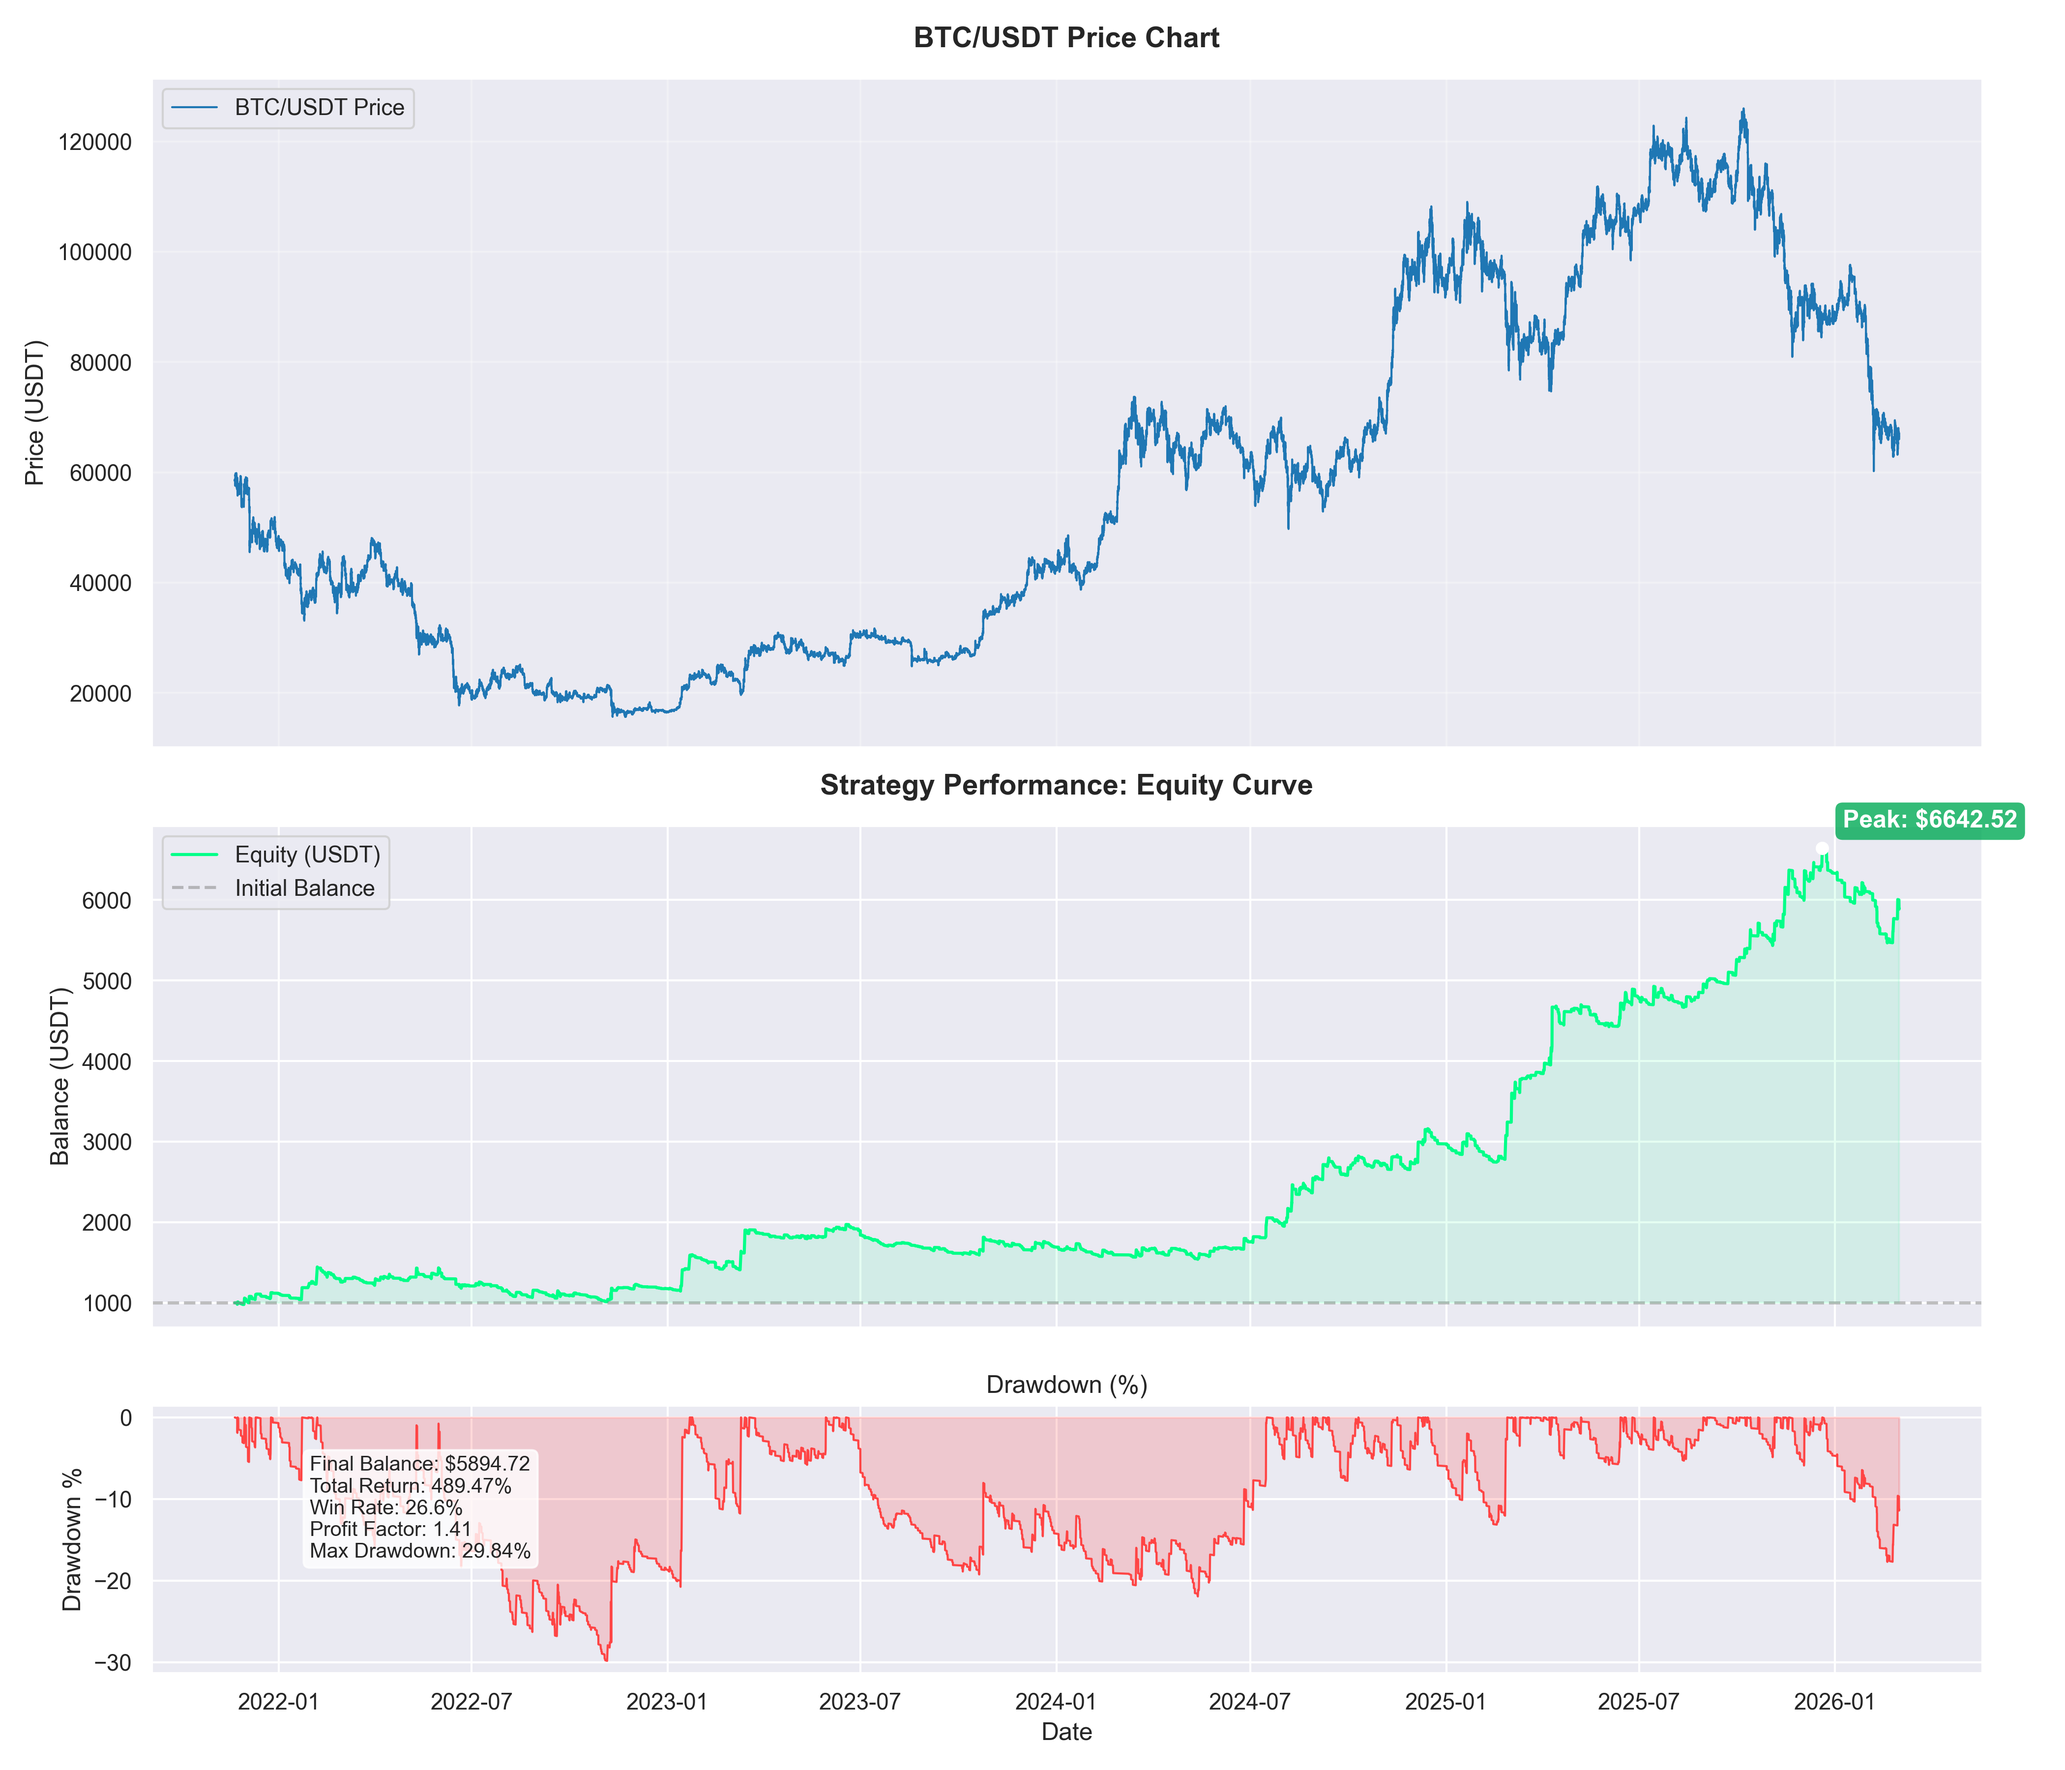
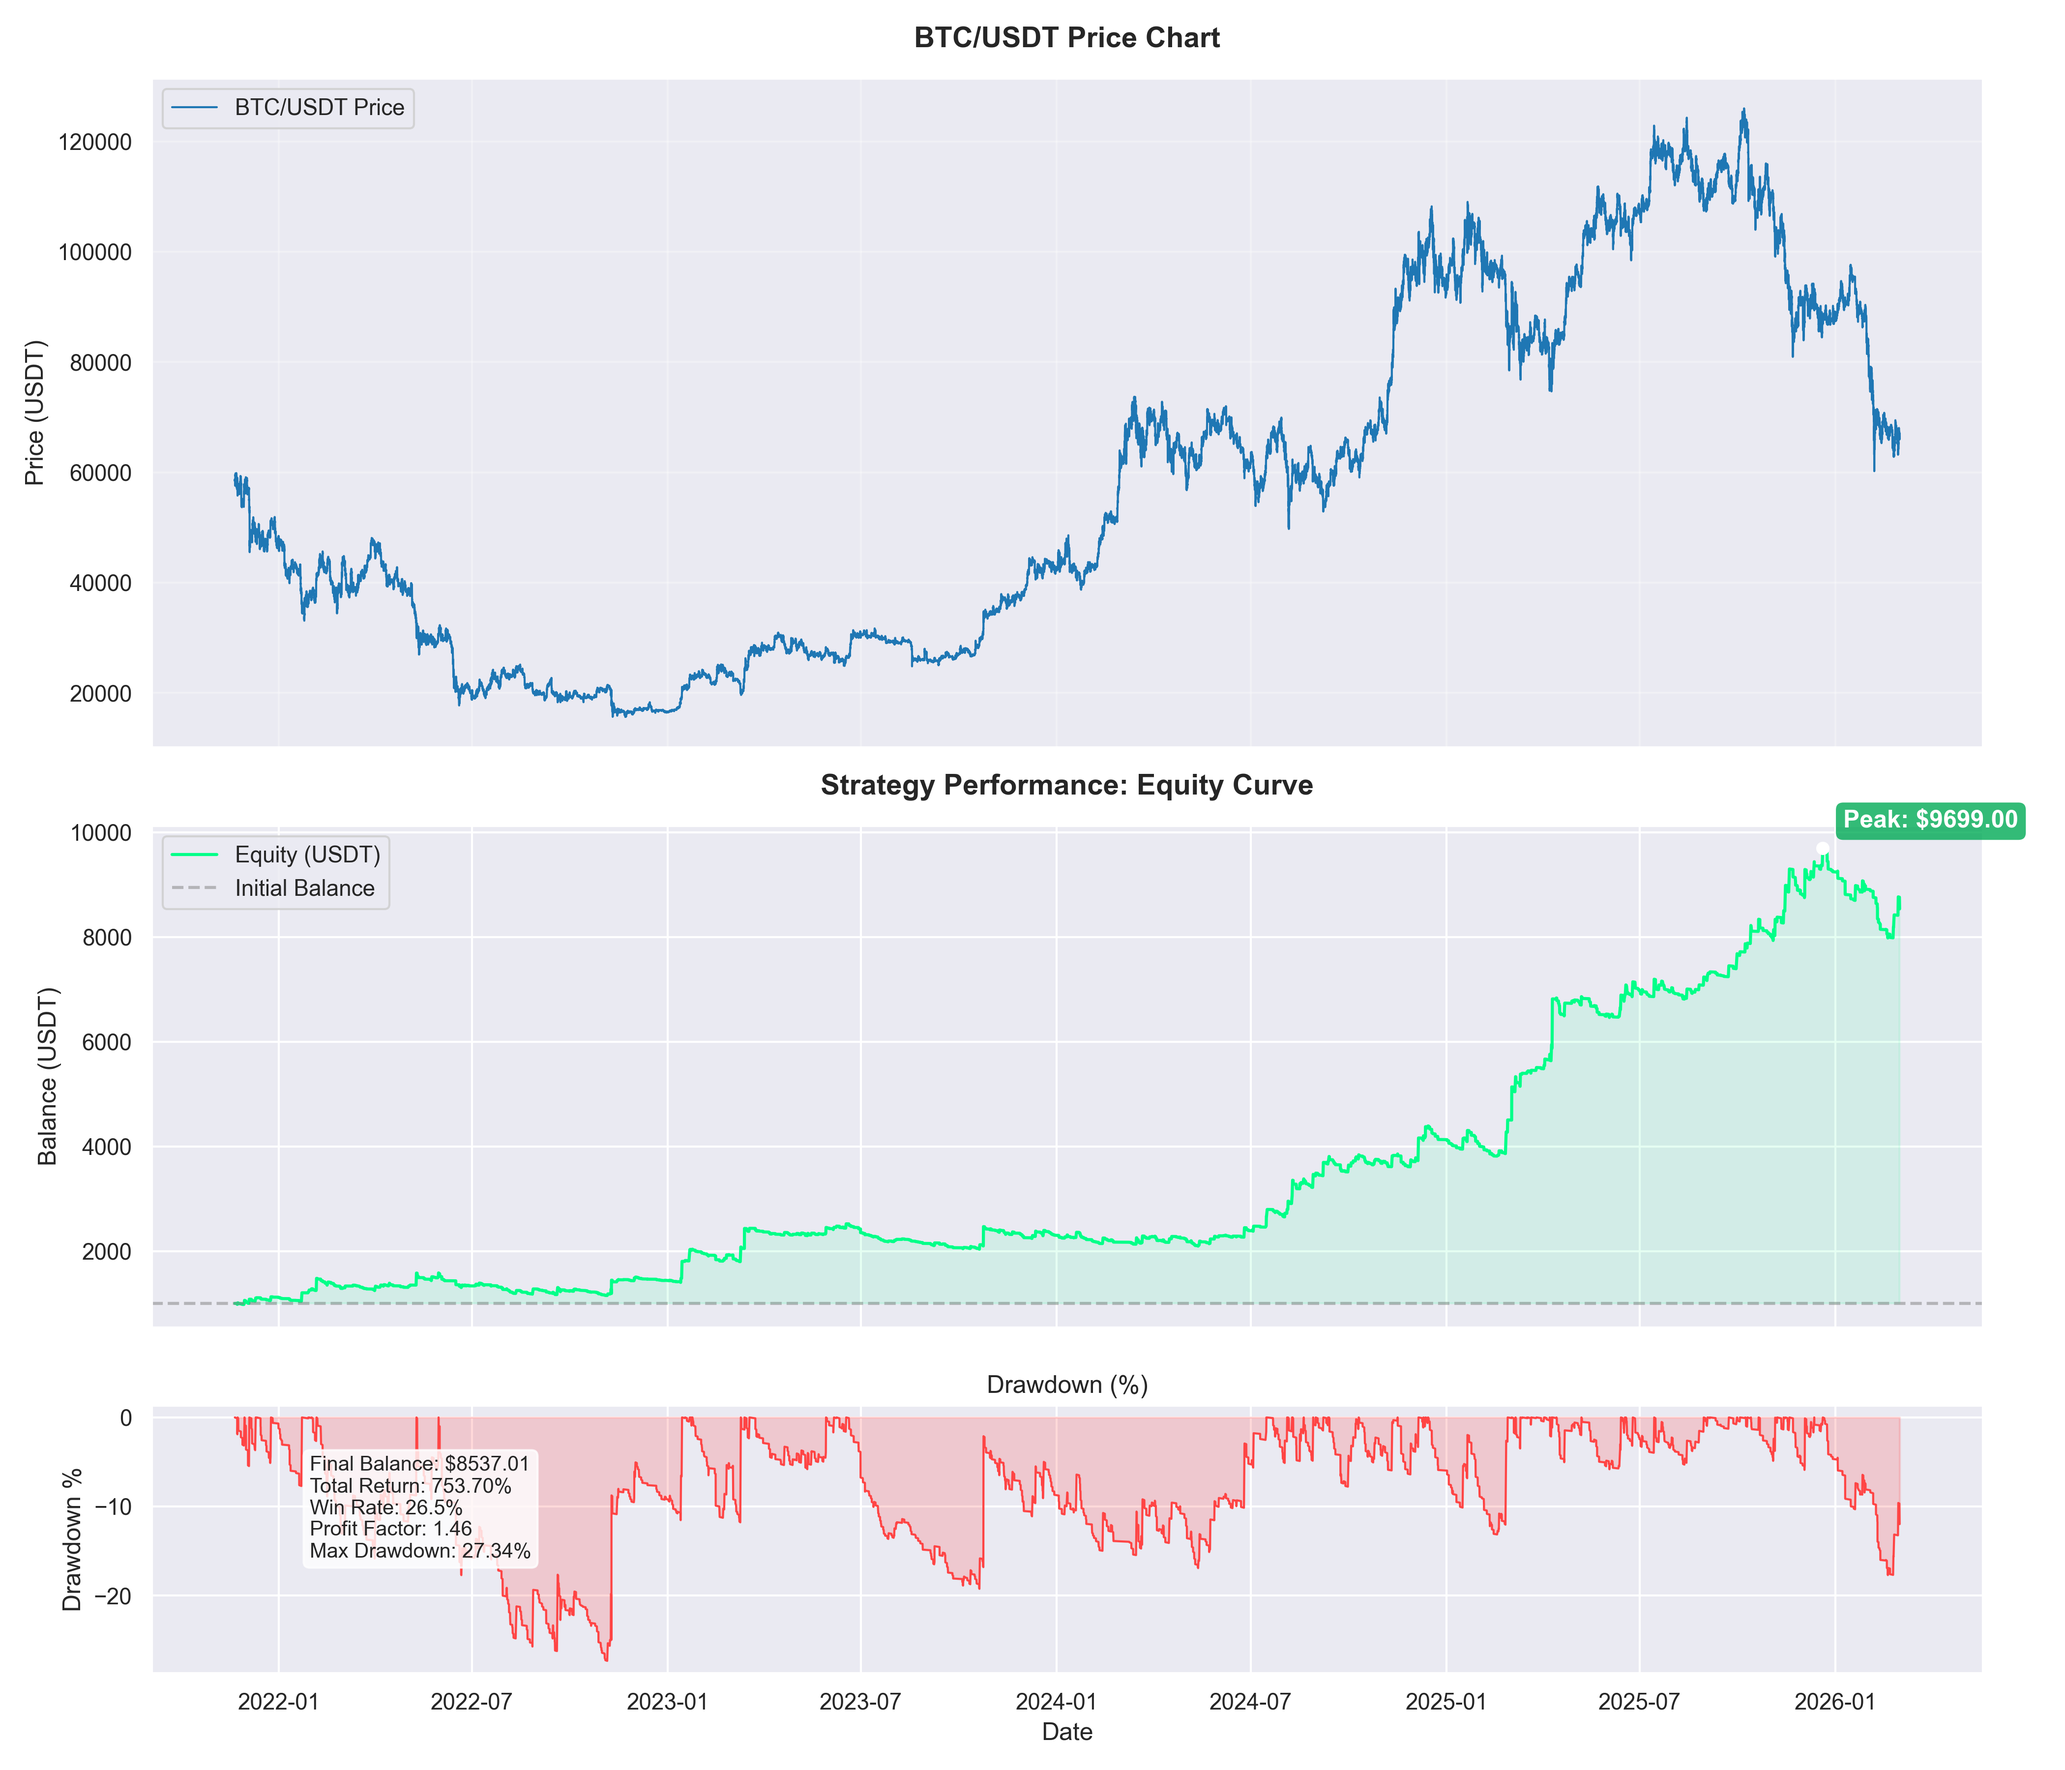
feat: Introduce a new optimization framework with a base optimizer and implement ROI take profit optimization in the backtest.

diff --git a/backtest.py b/backtest.py
@@ -15,7 +15,7 @@ from config import (
     RSI_LENGTH, RSI_OVERBOUGHT, RSI_OVERSOLD, RSI_LONG_THRESHOLD,
     VOLUME_MA_LENGTH,
     EMA_SLOPE_EMA_LENGTH, EMA_SLOPE_LOOKBACK, EMA_SLOPE_THRESHOLD, REDUCED_POSITION_SIZE_PERCENT,
-    RSI_DIV_LOOKBACK, RSI_DIV_MIN_RSI, RSI_DIV_PARTIAL_CLOSE_PCT
+    RSI_DIV_LOOKBACK, RSI_DIV_MIN_RSI, RSI_DIV_PARTIAL_CLOSE_PCT, settings
 )
 
 LIMIT = 150000
@@ -25,7 +25,8 @@ GEN_CHART = True
 
 def simulate(df, use_ema_filter=True, st_length=SUPERTREND_LENGTH, st_factor=SUPERTREND_FACTOR, sl_multiplier=ATR_MULTIPLIER, use_adx_filter=True, adx_threshold=ADX_THRESHOLD, use_rsi_filter=True, rsi_overbought=RSI_OVERBOUGHT, rsi_oversold=RSI_OVERSOLD, rsi_long_threshold=RSI_LONG_THRESHOLD, use_volume_filter=True, volume_ma_length=VOLUME_MA_LENGTH, leverage=LEVERAGE, position_size_percent=POSITION_SIZE_PERCENT,
              use_ema_slope_sizing=True, ema_slope_threshold=EMA_SLOPE_THRESHOLD, reduced_size_percent=REDUCED_POSITION_SIZE_PERCENT, slope_ema_length=EMA_SLOPE_EMA_LENGTH, slope_lookback=EMA_SLOPE_LOOKBACK,
-             use_divergence_filter=True, div_lookback=RSI_DIV_LOOKBACK, div_min_rsi=RSI_DIV_MIN_RSI, div_partial_pct=RSI_DIV_PARTIAL_CLOSE_PCT):
+             use_divergence_filter=True, div_lookback=RSI_DIV_LOOKBACK, div_min_rsi=RSI_DIV_MIN_RSI, div_partial_pct=RSI_DIV_PARTIAL_CLOSE_PCT,
+             roi_tp=0.0):
     initial_balance = 1000
     balance = initial_balance
     position_amt = 0 
@@ -145,7 +146,22 @@ def simulate(df, use_ema_filter=True, st_length=SUPERTREND_LENGTH, st_factor=SUP
             trades.append({'time': execution_time, 'type': 'CLOSE_SHORT', 'price': price, 'pnl': pnl})
             position_amt = 0
 
-        # 1a. PARTIAL TAKE PROFIT - DISABLED (Pure Trend Following)
+        # 1a. ROI TAKE PROFIT CHECK
+        if roi_tp > 0 and position_amt != 0:
+            current_roi = 0
+            if position_amt > 0:
+                current_roi = (price - entry_price) / entry_price * leverage
+            else:
+                current_roi = (entry_price - price) / entry_price * leverage
+            
+            if current_roi >= (roi_tp / 100.0): # roi_tp in percent
+                raw_pnl = (price - entry_price) * position_amt if position_amt > 0 else (entry_price - price) * abs(position_amt)
+                fee = (price * abs(position_amt)) * commission_rate
+                pnl = raw_pnl - fee
+                balance += pnl
+                trades.append({'time': execution_time, 'type': 'TAKE_PROFIT_ROI', 'price': price, 'pnl': pnl})
+                position_amt = 0
+                continue # Skip other exit checks
 
         # 1b. ATR-BASED STOP LOSS CHECK
         if position_amt > 0 and price <= stop_loss_price:
@@ -277,7 +293,7 @@ def simulate(df, use_ema_filter=True, st_length=SUPERTREND_LENGTH, st_factor=SUP
             # Add partial pnl but keep trade open
             if is_open:
                 current_trade_pnl += t['pnl']
-        elif any(x in t['type'] for x in ['CLOSE', 'STOP_LOSS', 'FINAL_CLOSE', 'LIQUIDATION']):
+        elif any(x in t['type'] for x in ['CLOSE', 'STOP_LOSS', 'FINAL_CLOSE', 'LIQUIDATION', 'TAKE_PROFIT_ROI']):
             current_trade_pnl += t['pnl']
             if is_open:
                 trade_cycles.append(current_trade_pnl)
@@ -489,7 +505,7 @@ def run_backtest():
 
     limit = LIMIT
 
-    print(f"Strategy: EMA {EMA_LENGTH}, SuperTrend {SUPERTREND_LENGTH}/{SUPERTREND_FACTOR}, ADX > {ADX_THRESHOLD}, SL: {ATR_MULTIPLIER}xATR, TP: Disabled (Pure Trend Following)")
+    print(f"Strategy: EMA {EMA_LENGTH}, SuperTrend {SUPERTREND_LENGTH}/{SUPERTREND_FACTOR}, ADX > {ADX_THRESHOLD}, SL: {ATR_MULTIPLIER}xATR, ROI TP: {settings.ROI_TP}%")
     
     df = get_backtest_data(limit=limit)
     if df is None: return
@@ -506,7 +522,7 @@ def run_backtest():
     df_final = df_st
     
     # Run simulation
-    res, trades = simulate(df_final, use_ema_filter=True, use_adx_filter=True, use_rsi_filter=True, use_volume_filter=True, use_ema_slope_sizing=True, use_divergence_filter=True)
+    res, trades = simulate(df_final, use_ema_filter=True, use_adx_filter=True, use_rsi_filter=True, use_volume_filter=True, use_ema_slope_sizing=True, use_divergence_filter=True, roi_tp=settings.ROI_TP)
     
     # --- LOGGING SETUP ---
     log_dir = "resource/backtest_logs"

diff --git a/optimize/optimize_roi_tp.py b/optimize/optimize_roi_tp.py
@@ -1,0 +1,48 @@
+
+import numpy as np
+import pandas as pd
+from base_optimizer import BaseOptimizer
+from backtest import simulate
+
+def run_simulation(roi_tp, df_final):
+    # Test ROI Take Profit
+    res, _ = simulate(df_final, roi_tp=roi_tp)
+    return {
+        'roi_tp_pct': round(roi_tp, 1),
+        'pnl_pct': res['pnl_pct'],
+        'win_rate': res['win_rate'],
+        'pf': res['profit_factor'],
+        'mdd': res['max_drawdown'],
+        'total_trades': res['total_trades']
+    }
+
+def run_optimization():
+    optimizer = BaseOptimizer("ROI Take Profit Optimization")
+    
+    print("Strategy: Pure Trend Following + ROI Take Profit")
+    
+    if not optimizer.load_and_prepare_data():
+        return
+
+    # Define range for ROI TP (%)
+    # Testing from 10% to 500% ROI
+    # 0 means disabled
+    roi_targets = [0] + list(np.arange(77, 78, 0.1))
+    
+    tasks = [(target,) for target in roi_targets]
+    
+    results = optimizer.run_parallel(tasks, run_simulation)
+    
+    opt_df = optimizer.save_and_analyze(results, "optimization_results_roi_tp.csv")
+    
+    if opt_df is not None and not opt_df.empty:
+        # Sort by PnL and show top 5
+        print("\n🌟 BEST ROI TP SETTINGS:")
+        print(opt_df.sort_values(by='pnl_pct', ascending=False).head(5).to_string(index=False))
+        
+        # Compare with 0 (No TP)
+        no_tp = opt_df[opt_df['roi_tp_pct'] == 0].iloc[0]
+        print(f"\n📈 Baseline (No TP): PnL: {no_tp['pnl_pct']:.2f}%, MDD: {no_tp['mdd']:.2f}%, PF: {no_tp['pf']:.2f}")
+
+if __name__ == "__main__":
+    run_optimization()

diff --git a/bot/strategy.py b/bot/strategy.py
@@ -97,6 +97,29 @@ class Strategy:
                 self.notifier.send_lark_message(f"⚠ **SOFTWARE STOP LOSS HIT**\nCurrent Price: {current_price:.2f}\nTarget SL: {self.stop_loss_price:.2f}\nClosing position.")
             self.close_all_positions()
             self.stop_loss_price = None
+            return
+
+        # Check for ROI Take Profit
+        if settings.ROI_TP > 0:
+            roi = 0
+            if current_pos_amt > 0:
+                roi = (current_price - entry_price) / entry_price * settings.LEVERAGE
+            else:
+                roi = (entry_price - current_price) / entry_price * settings.LEVERAGE
+            
+            if (roi * 100) >= settings.ROI_TP:
+                self.logger.info(f"ROI TAKE PROFIT TARGET REACHED: {roi*100:.2f}% (Target: {settings.ROI_TP}%). Closing position.")
+                if self.notifier:
+                    self.notifier.send_lark_message(
+                        f"💰 **ROI TAKE PROFIT TARGET REACHED**\n"
+                        f"Current Price: {current_price:.2f}\n"
+                        f"Entry Price: {entry_price:.2f}\n"
+                        f"Current ROI: {roi*100:.2f}%\n"
+                        f"Target: {settings.ROI_TP}%\n"
+                        f"Closing position."
+                    )
+                self.close_all_positions()
+                self.stop_loss_price = None
 
     def _check_new_candle(self, df: pd.DataFrame) -> Optional[float]:
         """

diff --git a/optimize/base_optimizer.py b/optimize/base_optimizer.py
@@ -12,7 +12,7 @@ from backtest import get_backtest_data
 from bot.data_processor import DataProcessor
 from config import (
     EMA_LENGTH, SUPERTREND_LENGTH, SUPERTREND_FACTOR, ADX_LENGTH, 
-    ATR_LENGTH, RSI_LENGTH, VOLUME_MA_LENGTH
+    ATR_LENGTH, RSI_LENGTH, VOLUME_MA_LENGTH, EMA_SLOPE_EMA_LENGTH
 )
 
 class BaseOptimizer:
@@ -39,6 +39,7 @@ class BaseOptimizer:
         df_st['ATR'] = DataProcessor.calculate_atr(df, length=ATR_LENGTH)
         df_st['RSI'] = DataProcessor.calculate_rsi(df, length=RSI_LENGTH)
         df_st = DataProcessor.calculate_volume_ma(df_st, length=VOLUME_MA_LENGTH)
+        df_st[f'EMA_{EMA_SLOPE_EMA_LENGTH}'] = DataProcessor.calculate_ema(df_st, length=EMA_SLOPE_EMA_LENGTH)[f'EMA_{EMA_SLOPE_EMA_LENGTH}']
         
         self.df_final = df_st
         return True
@@ -79,8 +80,11 @@ class BaseOptimizer:
             return
 
         opt_df = pd.DataFrame(results)
-        opt_df.to_csv("optimize/" + filename, index=False)
-        print(f"\n✅ Results saved to optimize/{filename}")
+        # Save in the same directory as the optimizer script
+        current_dir = os.path.dirname(os.path.abspath(__file__))
+        save_path = os.path.join(current_dir, filename)
+        opt_df.to_csv(save_path, index=False)
+        print(f"\n✅ Results saved to {save_path}")
         
         # Sort by PnL
         if 'pnl_pct' in opt_df.columns:

diff --git a/config.py b/config.py
@@ -27,7 +27,8 @@ class TradingConfig:
     SYMBOL: str = "BTC/USDT"
     TIMEFRAME: str = "15m"
     
-    # Trend Indicators
+    # Strategy Parameters
+    ROI_TP = 77.5                # Take Profit target in % ROI (from optimization)
     SUPERTREND_LENGTH: int = 18
     SUPERTREND_FACTOR: float = 1.45
     EMA_LENGTH: int = 102
